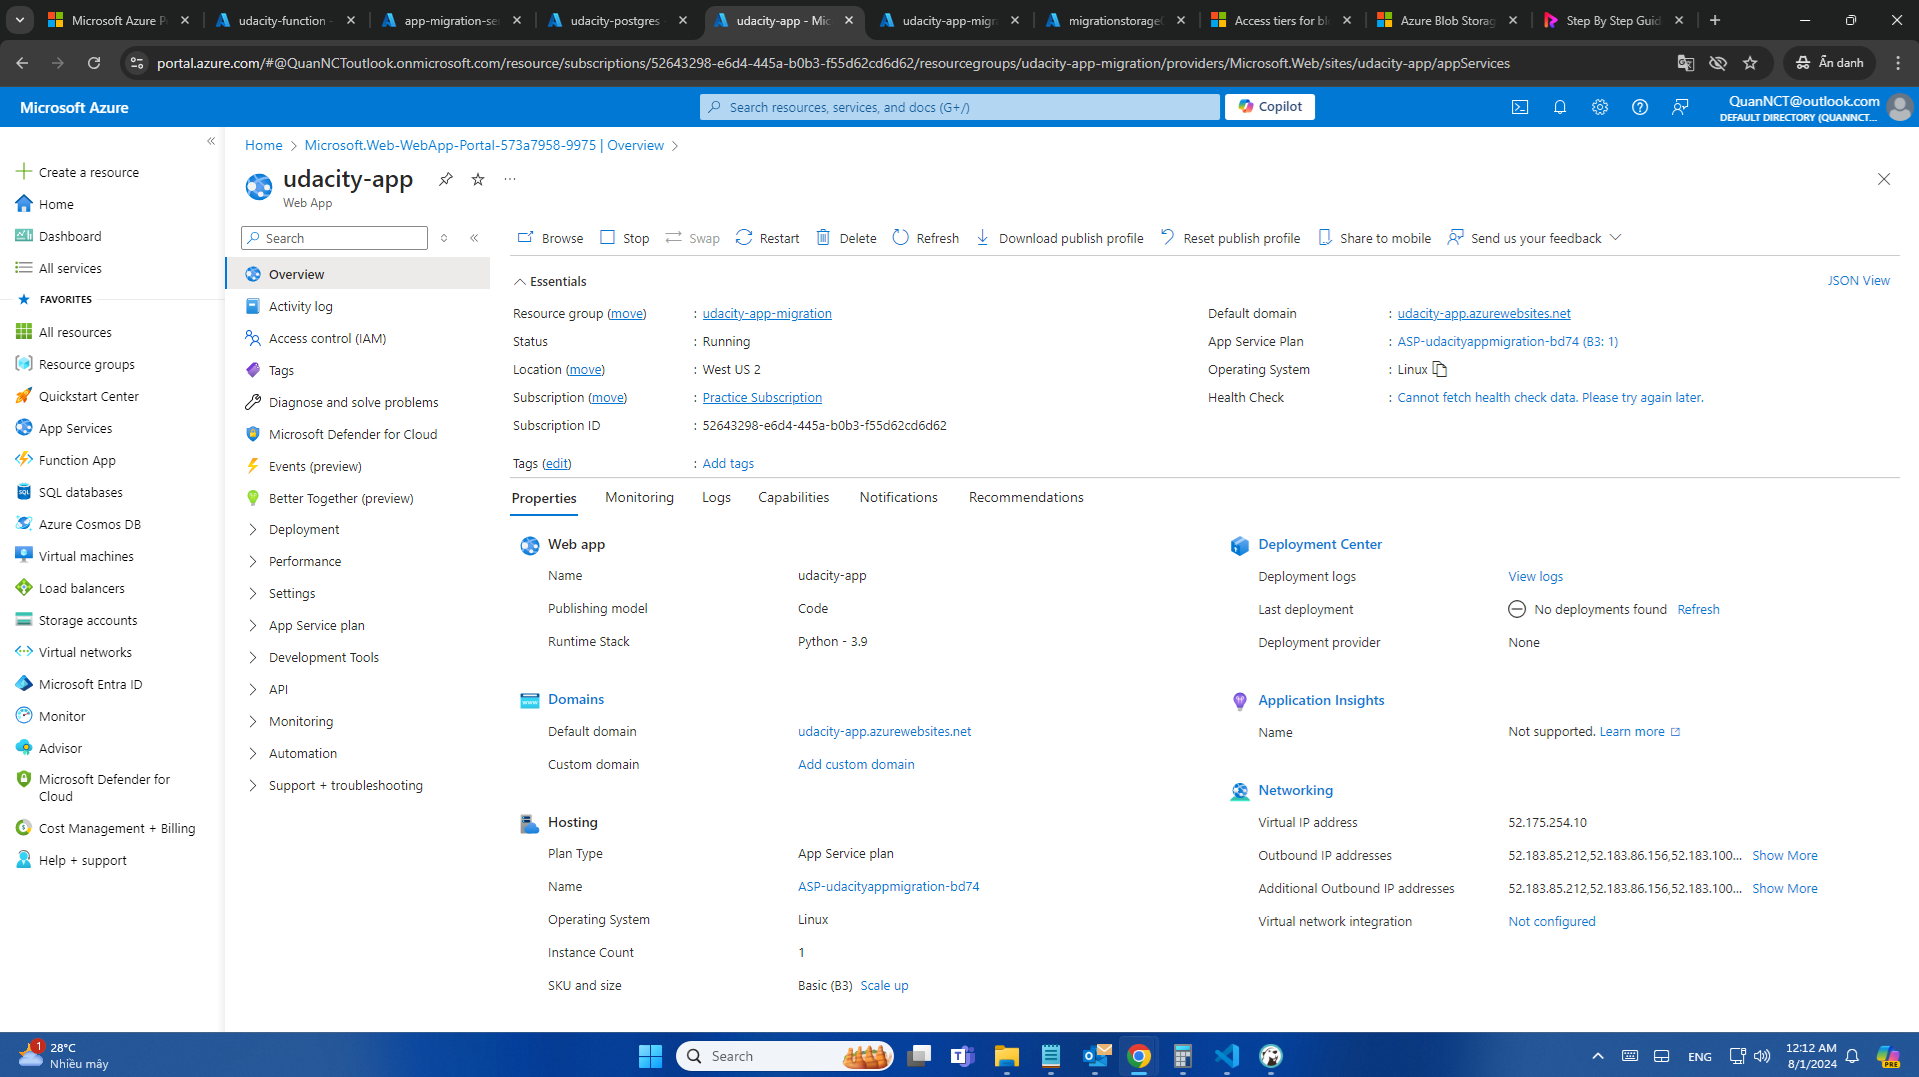
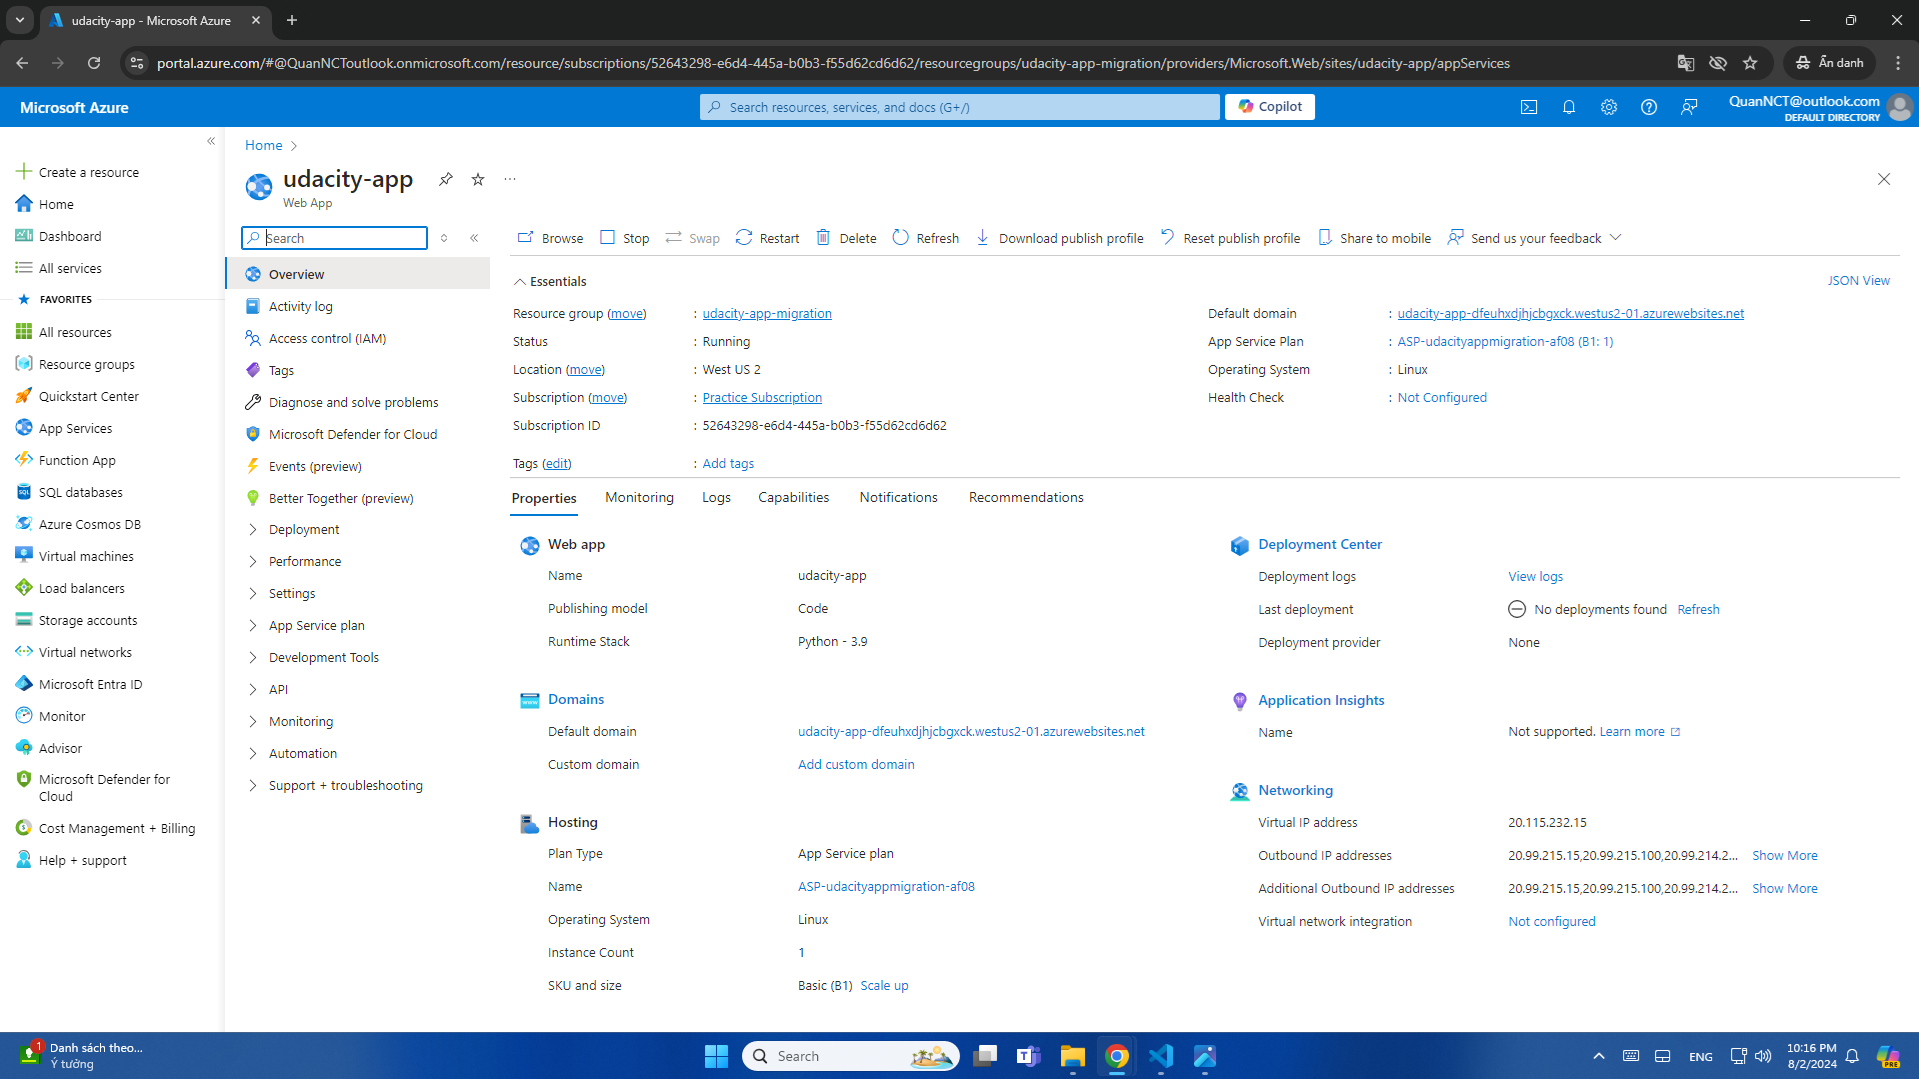
Fix review from reviewers

diff --git a/README.md b/README.md
@@ -66,9 +66,11 @@ Complete a month cost analysis of each Azure resource to give an estimate total 
 | *Azure Postgres Database* | Burstable                              |  $16.09                              |
 | *Azure Service Bus*       | Basic                                  |  $0.05 per 1M operations per 1 month |
 | *Azure Storage account*   | Standard performance - Hot access tier |  $0.144                              |
-| *Azure App Service*       | Basic (B3)                             |  $48,91                              |
+| *Azure App Service*       | Basic (B1)                             |  $12,41                              |
+| *Azure Function*          | Consumption plan (Y1)                  |  $0.20 per 1 million executions      |
 
 ## Architecture Explanation
 
 The architecture of application was configured perfectly, but the sensitive datas in web application structure are exposed leading to the data leaks so I configured these information as the environment variables in function app and web app service. 
-Creating a service bus namespace to handle the notifications is a good idea for using azure notification service instead of using event grid or event hub, event hub. The cost is reasonable when using the basic plan for service bus, app service, burstable and premium SSD for azure postgres flexible database and comsumption plan function app and it could all be replaced by moving to Azure Postgres Database, Azure App Service Basic B1 to lower costs.
+Creating a service bus namespace to handle the notifications is a good idea for using azure notification service instead of using event grid or event hub, event hub.
+ The cost is reasonable when using the basic plan for service bus, B1 plan for app service, burstable and premium SSD for azure postgres flexible database and comsumption plan function app. Furthermore, we can choose the B3 or B2 for app service and the premium plan for function app for the performance optimization
